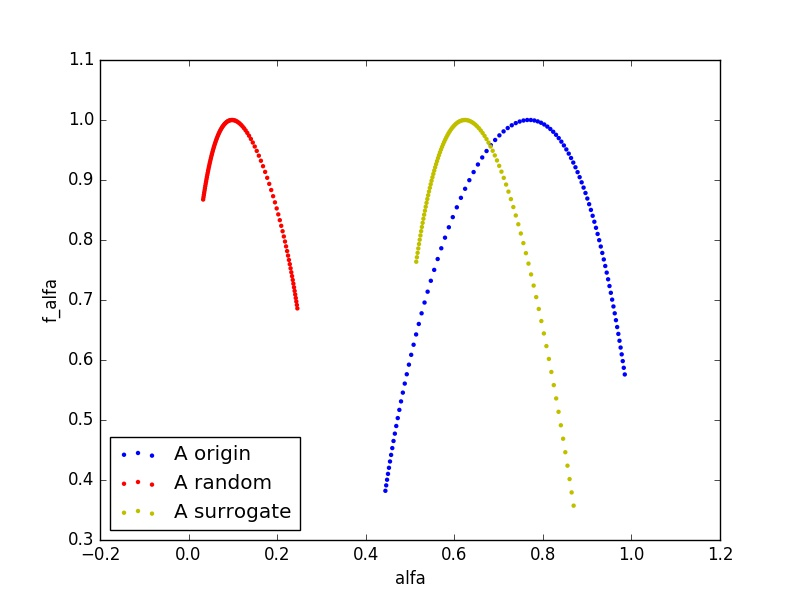
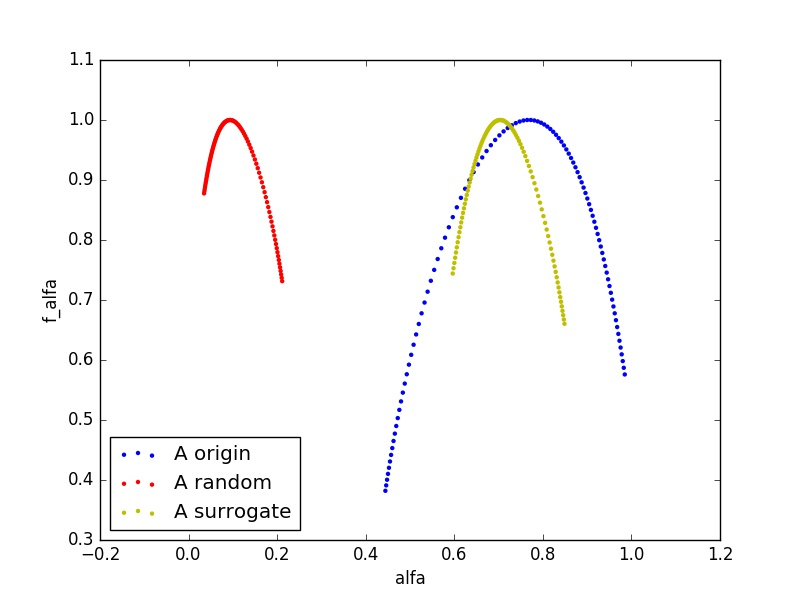
test fse

diff --git a/method/surrogate.py b/method/surrogate.py
@@ -51,7 +51,7 @@ def AAFT_surrogates(original_data):
 
     return rescaled_data
 
-def refined_AAFT_surrogates(self, original_data, n_iterations):
+def refined_AAFT_surrogates(original_data, n_iterations):
     #  Get size of dimensions
     n_time = original_data.shape[1]
 
@@ -67,7 +67,7 @@ def refined_AAFT_surrogates(self, original_data, n_iterations):
 
     #  Get starting point / initial conditions for R surrogates
     # (see [Schreiber2000]_)
-    R = self.AAFT_surrogates(original_data)
+    R = AAFT_surrogates(original_data)
 
     #  Start iteration
     for i in range(n_iterations):
@@ -94,7 +94,8 @@ def FSE_init(filename):
     df_random = reader.iloc[np.random.permutation(len(reader))]
     key_list = [key for key in reader]
     list_t = [reader[key].values for key in reader]
-    tmp_surr = AAFT_surrogates(np.array(list_t))
+    #tmp_surr = AAFT_surrogates(np.array(list_t))
+    tmp_surr = refined_AAFT_surrogates(np.array(list_t), 20)
     surrogated = {}
     for i in range(len(key_list)): surrogated[key_list[i]] = tmp_surr[i]
     df_surr = pd.DataFrame(surrogated)
